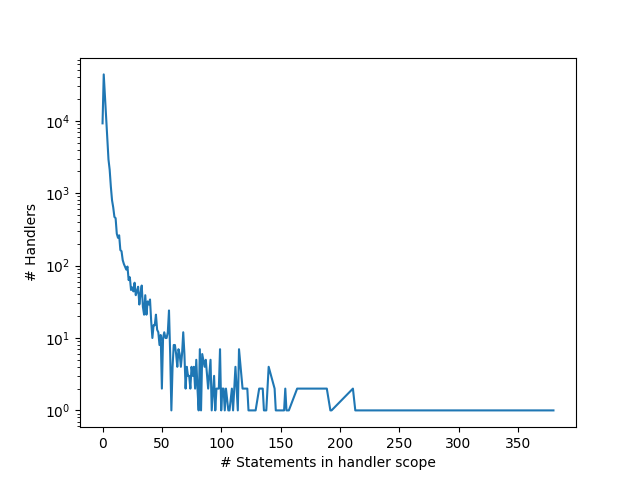
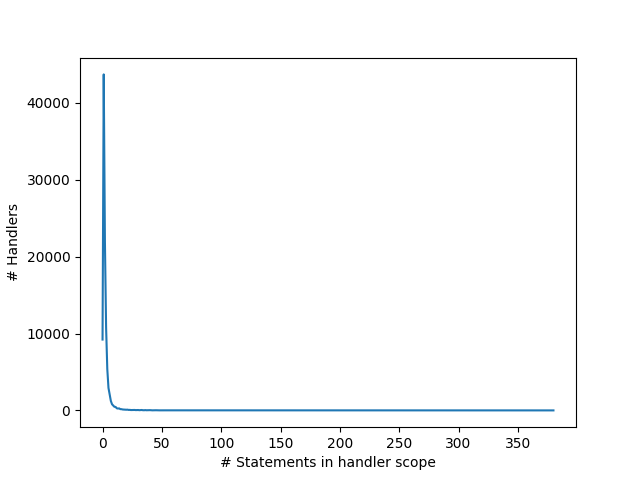
Save pallete configuration for error handling abstractions

diff --git a/statistics/src/v2/rq1-1/rq1_data_viz.py b/statistics/src/v2/rq1-1/rq1_data_viz.py
@@ -50,12 +50,15 @@ def lineplot(df_raw):
 
     df_res = df.copy()
     df_res.columns = df_res.columns.str.replace(constants.MECH, new_hue)
+
     graphs.save_lineplot_hue(
-        df_res, RESULTS_IMAGE_DIRECTORY + 'line-abstraction', x_col, y_col, new_hue, x_label, y_label, False)
+        df_res, RESULTS_IMAGE_DIRECTORY + 'line-abstraction', x_col, y_col, new_hue, x_label, y_label, False,
+        constants.PALLETE)
 
     df_res = df_res[df_res[new_hue] != constants.CALLBACK]
     graphs.save_lineplot_hue(
-        df_res, RESULTS_IMAGE_DIRECTORY + 'line-rem-callback', x_col, y_col, new_hue, x_label, y_label, False)
+        df_res, RESULTS_IMAGE_DIRECTORY + 'line-rem-callback', x_col, y_col, new_hue, x_label, y_label, False,
+        constants.PALLETE)
 
 
 def lineplot_line_per_count(df_raw):
@@ -76,7 +79,7 @@ def lineplot_line_per_count(df_raw):
     y_col = constants.COUNT
 
     image_path = RESULTS_IMAGE_DIRECTORY + 'line-simple-stmts.png'
-    graphs.save_lineplot(df_g, image_path, x_col, y_col, x_label, y_label)
+    graphs.save_lineplot(df_g, image_path, x_col, y_col, x_label, y_label, False)
 
 
 def violinplot_per_mech():
@@ -102,11 +105,11 @@ def violinplot_per_mech():
 
 
 if __name__ == '__main__':
-    ds.create_dir_if_not_exists(RESULTS_DIRECTORY)
-    ds.create_dir_if_not_exists(RESULTS_IMAGE_DIRECTORY)
+    # ds.create_dir_if_not_exists(RESULTS_DIRECTORY)
+    # ds.create_dir_if_not_exists(RESULTS_IMAGE_DIRECTORY)
 
     df = ds.read_dataset()
-    create_graph()
+    # create_graph()
 
     lineplot(df)
     lineplot_line_per_count(df)

diff --git a/statistics/src/data_viz/graphs.py b/statistics/src/data_viz/graphs.py
@@ -70,11 +70,12 @@ def save_lineplot(df, image_path, x_column_name, y_column_name, x_label, y_label
     plt.savefig(image_path)
 
 
-def save_lineplot_hue(df, image_path, x_column_name, y_column_name, hue, x_label, y_label, log):
+def save_lineplot_hue(df, image_path, x_column_name, y_column_name, hue, x_label, y_label, log,
+                      palette=sns.color_palette()):
     # Start a new figure
     plt.figure()
 
-    ax = sns.lineplot(data=df, x=x_column_name, y=y_column_name, hue=hue)
+    ax = sns.lineplot(data=df, x=x_column_name, y=y_column_name, hue=hue, palette=palette)
     ax.set(xlabel=x_label, ylabel=y_label)
     ax.set_yscale('log')
 

diff --git a/statistics/src/constants.py b/statistics/src/constants.py
@@ -98,7 +98,7 @@ STRATEGIES = [
     REASSIGNING_ERROR,
     ALERT,
     THROW_LITERAL,
-    THROW_UNDEFINED ,
+    THROW_UNDEFINED,
     THROW_NULL,
     THROW_ERROR_OBJECT,
     RETHROW,
@@ -118,6 +118,10 @@ MECHS = [
     PROMISE,
     CALLBACK
 ]
+
+PALLETE = {
+    ASYNC_AWAIT: 'blue', CALLBACK: 'orange', EVENT: 'green', PROMISE: 'red', TRY_CATCH: 'purple'
+ }
 
 OVERALL = 'overall'
 CLIENT = 'client'
